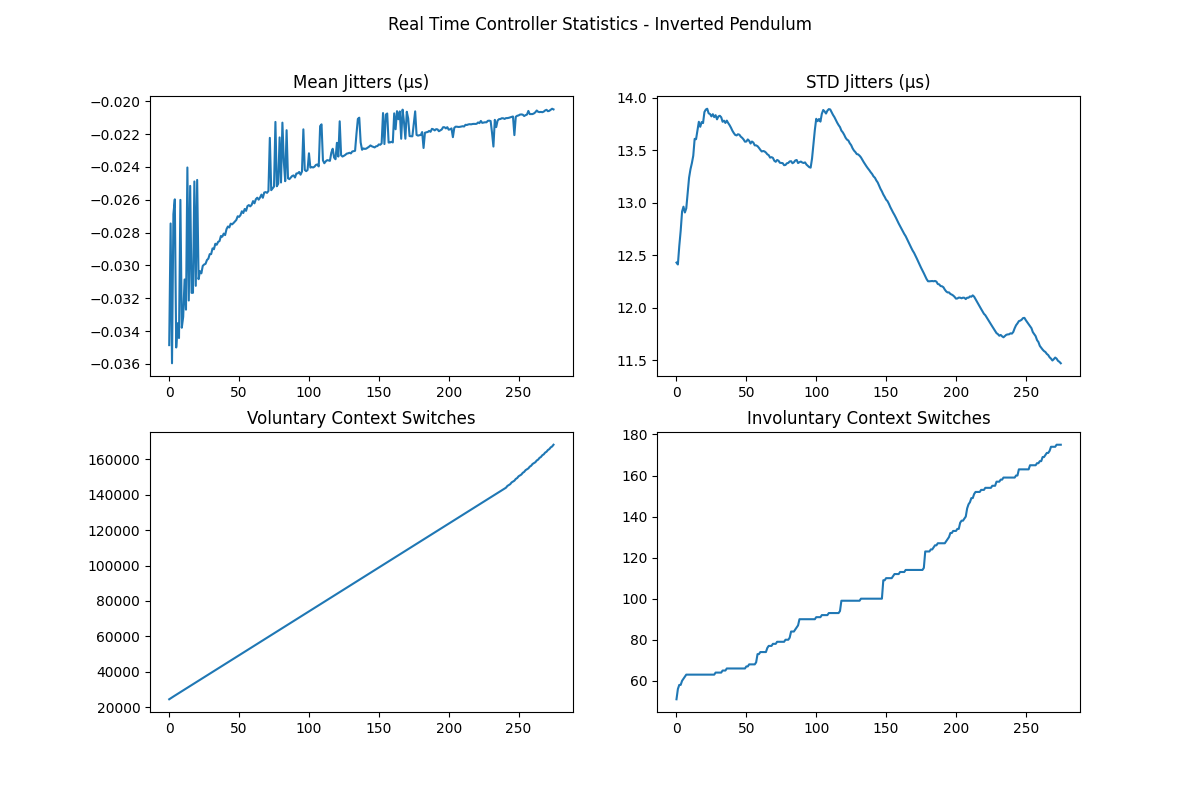
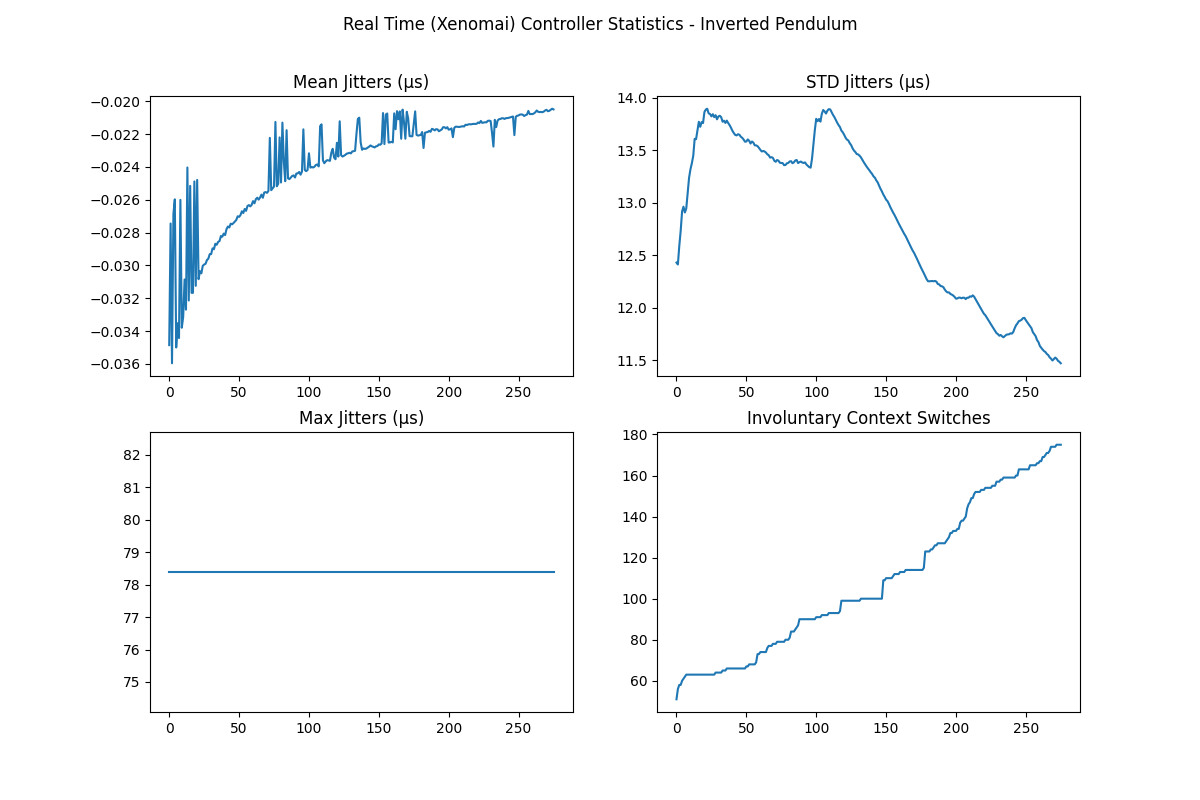
add argparse for plot

diff --git a/src/realtime_statistics/realtime_statistics/plot_json.py b/src/realtime_statistics/realtime_statistics/plot_json.py
@@ -6,91 +6,100 @@ from rclpy.node import Node
 import matplotlib.pyplot as plt
 import json
 import argparse
-import sys
-import subprocess
 import random
 import pathlib
-
-
-MODE = 0 # 0 for Driver, 1 for Controller stats
-
-cmd1 = subprocess.Popen(['dmesg'], stdout=subprocess.PIPE)
-cmd2 = subprocess.Popen(['grep', '-i', 'xenomai'], stdin=cmd1.stdout, stdout=subprocess.PIPE)
-output, err = cmd2.communicate()
-
-if "Xenomai" in str(output):
-    RT = 1
-else:
-    RT = 0
 
 def get_args():
     parser = argparse.ArgumentParser(
         description="Real-Time Statistics Plotter."
     )
-    parser.add_argument("-n", "--node",
-                        action="store",
+    parser.add_argument("--mode",
                         type=str,
                         required=True,
-                        help="Choose 'controller' or 'driver' stats.",
-                        default="controller")
-    return parser.parse_args(sys.argv[4:])
+                        help="Register 'controller' ; 'driver' ; 'both' stats",
+                        default='controller')
+    parser.add_argument("--plot",
+                        type=str,
+                        required=True,
+                        help="Plot 'rt' or 'nrt' ?",
+                        default="nrt")
+    return parser.parse_args()
 
 class PlotJson(Node):
 
-    def __init__(self):
+    def __init__(self, mode, rt):
         super().__init__('node')
+
+        self.mode = mode
+        self.rt = rt
 
         default_path = str(pathlib.Path(__file__).parent.absolute())
         default_path = default_path.replace('/build/realtime_statistics/realtime_statistics', '')
 
         self.default_data_path = default_path + "/ros2_realtime_statistics/data/"
 
-        if RT == 0:
+        if rt == 0:
             self.driver_stats_path = default_path + "/ros2_realtime_statistics/data/driver_nrt_stats.json"
-            self.controller_stats_path = default_path + "/ros2_realtime_statistics/data//controller_nrt_stats.json"
+            self.controller_stats_path = default_path + "/ros2_realtime_statistics/data/controller_nrt_stats.json"
         else:
             self.driver_stats_path = default_path + "/ros2_realtime_statistics/data/driver_rt_stats.json"
-            self.controller_stats_path = default_path + "/ros2_realtime_statistics/data//controller_rt_stats.json"
-
-        self.plot_from_json()
+            self.controller_stats_path = default_path + "/ros2_realtime_statistics/data/controller_rt_stats.json"
 
     def read_json_file(self, path):
         with open(path, "r") as file:
             data = json.load(file)
         return data
 
-    def plot_from_json(self, filepath):
-        json_data = self.read_json_file(filepath)
-        nlist = self.sorted_data_from_json(json_data)
-        if MODE == 1:
+    def plot_from_json(self):
+        single = False
+        if self.mode == 'controller':
             label = "Controller"
-        elif MODE == 0:
+            json_data = self.read_json_file(self.controller_stats_path)
+            dict_json_sorted, nlist = self.sorted_data_from_json(json_data)
+            single = True
+        elif self.mode == 'driver':
             label = "Driver"
+            json_data = self.read_json_file(self.driver_stats_path)
+            dict_json_sorted, nlist = self.sorted_data_from_json(json_data)
+            single = True
+        elif self.mode == 'both':
+            label = "Driver and Controller"
+            c_json_data = self.read_json_file(self.controller_stats_path)
+            d_json_data = self.read_json_file(self.driver_stats_path)
+            c_dict_json_sorted, c_nlist = self.sorted_data_from_json(c_json_data)
+            d_dict_json_sorted, d_nlist = self.sorted_data_from_json(d_json_data)
         else:
             print("Error : mode not supported")
             self.destroy_node()
-        self.plot_from_sorted_data(nlist, label)
+
+        if single:
+            self.plot_from_sorted_data(nlist, label, dict_json_sorted)
+        else:
+            self.plot_from_sorted_data(c_nlist, "Controller", c_dict_json_sorted)
+            self.plot_from_sorted_data(d_nlist, "Driver", d_dict_json_sorted)
+        plt.show()
     
     def sorted_data_from_json(self, json_data):
+        dict_json_sorted = dict()
         n_pts = range(0, int(list(json_data.keys())[-1]) + 1)
         for number_key in json_data:
             for category in json_data[number_key]:
-                self.dict_json_sorted[category] = dict()
+                dict_json_sorted[category] = dict()
                 for data in json_data[number_key][category]:
-                    self.dict_json_sorted[category][data] = []
+                    dict_json_sorted[category][data] = []
 
         for number_key in json_data:
             for category in json_data[number_key]:
                 for data in json_data[number_key][category]:
-                    self.dict_json_sorted[category][data].append(json_data[number_key][category][data])
+                    dict_json_sorted[category][data].append(json_data[number_key][category][data])
 
-        return n_pts
+        return dict_json_sorted, n_pts
     
-    def plot_from_sorted_data(self, n_pts_list, label):
+    def plot_from_sorted_data(self, n_pts_list, label, dict_json_sorted):
         rt_label = ""
-        if RT == 0:
+        if self.rt == 0:
             rt_label = "(NRT Linux) "
-        elif RT == 1: 
+        elif self.rt == 1: 
             rt_label = "(Xenomai) "
         else:
             print("Error, RT mode should be 0 or 1")
@@ -98,26 +107,29 @@ class PlotJson(Node):
 
         self.fig, self.axs = plt.subplots(2, 2, figsize=(12, 8))
         self.fig.suptitle("Real Time " + rt_label + label + " Statistics - Inverted Pendulum")
-        rdn_category_key = random.choice(list(self.dict_json_sorted.keys()))
-        self.axs[0, 0].plot(n_pts_list, self.dict_json_sorted[rdn_category_key]["jitter_mean_usec"])
+        rdn_category_key = random.choice(list(dict_json_sorted.keys()))
+        self.axs[0, 0].plot(n_pts_list, dict_json_sorted[rdn_category_key]["jitter_mean_usec"])
         self.axs[0, 0].set_title("Mean Jitters (µs)")
-        self.axs[0, 1].plot(n_pts_list, self.dict_json_sorted[rdn_category_key]["jitter_std_usec"])
+        self.axs[0, 1].plot(n_pts_list, dict_json_sorted[rdn_category_key]["jitter_std_usec"])
         self.axs[0, 1].set_title("STD Jitters (µs)")
-        self.axs[1, 1].plot(n_pts_list, self.dict_json_sorted[rdn_category_key]["involuntary_context_switches"])
+        self.axs[1, 1].plot(n_pts_list, dict_json_sorted[rdn_category_key]["involuntary_context_switches"])
         self.axs[1, 1].set_title("Involuntary Context Switches")
-        self.axs[1, 0].plot(n_pts_list, self.dict_json_sorted[rdn_category_key]["jitter_max_usec"])
+        self.axs[1, 0].plot(n_pts_list, dict_json_sorted[rdn_category_key]["jitter_max_usec"])
         self.axs[1, 0].set_title("Max Jitters (µs)")
-        if (RT == 0):
+        if (self.rt == 0):
             plt.savefig(self.default_data_path + "nrt_" + label + '.png')
         else:
             plt.savefig(self.default_data_path + "rt_" + label + '.png')
-        plt.show()
 
-def main(args=get_args):
+def main(args=None):
+    argprs = get_args()
     rclpy.init(args=args)
-
-    plt_json = PlotJson()
-
+    if argprs.plot == 'rt':
+        rt = 1
+    elif argprs.plot == 'nrt':
+        rt = 0
+    plt_json = PlotJson(argprs.mode, rt)
+    plt_json.plot_from_json()
     rclpy.spin_once(plt_json)
 
     # Destroy the node explicitly
